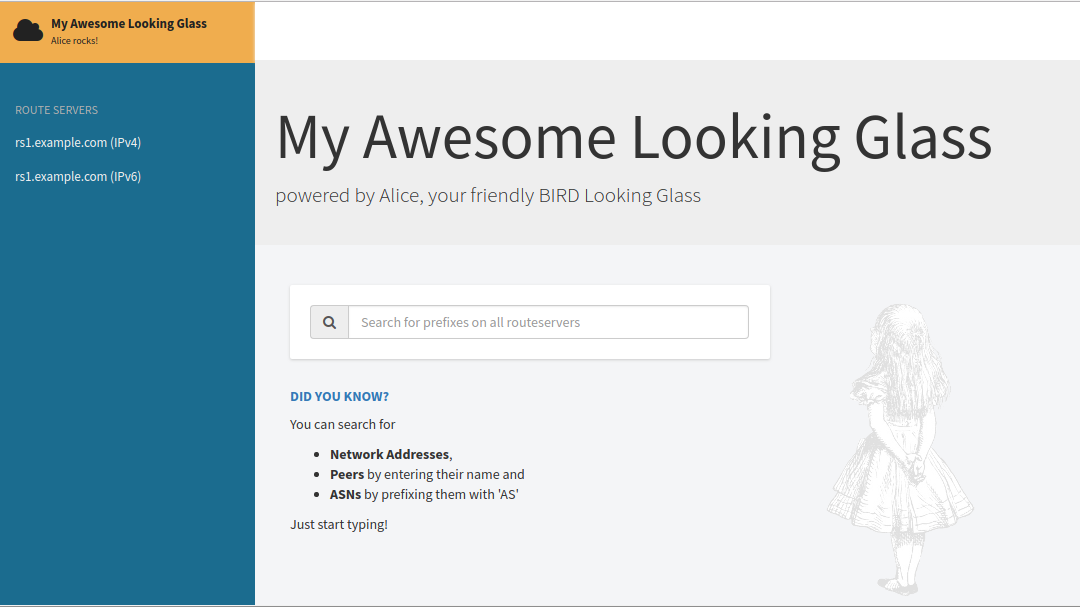
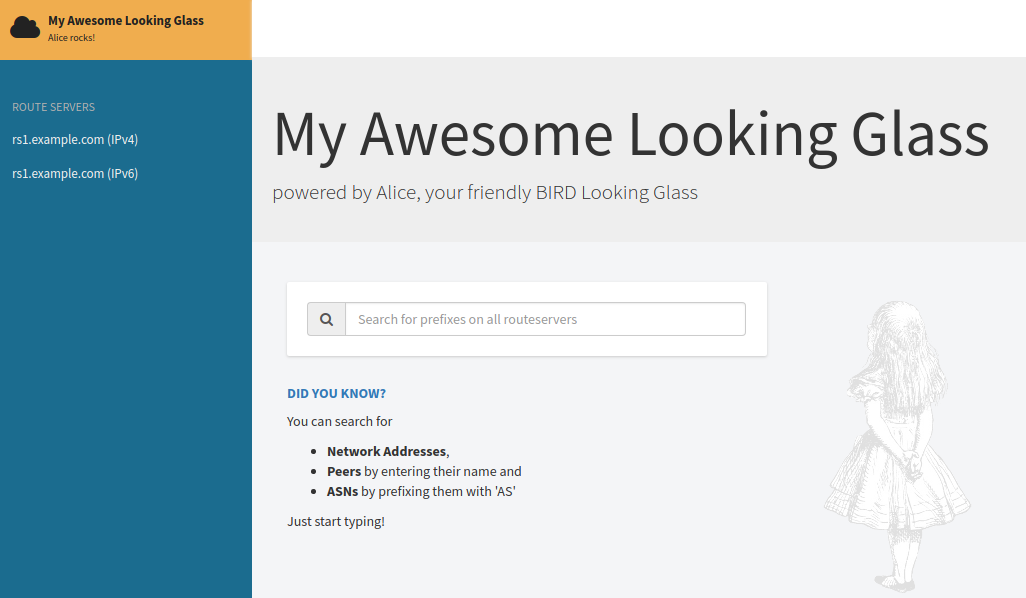
updated screenshots and documentation

diff --git a/README.md b/README.md
@@ -26,11 +26,10 @@ Alice.updateContent({
 
 ## Screenshots
 
-You want an example?
-Turn this:
+You want an example? This is the default theme:
 ![Alice screenshot before customization](/doc/alice-before.png?raw=true)
 
-Into this:
+This is the `alice-theme-example` customization:
 ![Alice screenshot after customization](/doc/alice-after.png?raw=true)
 
 
